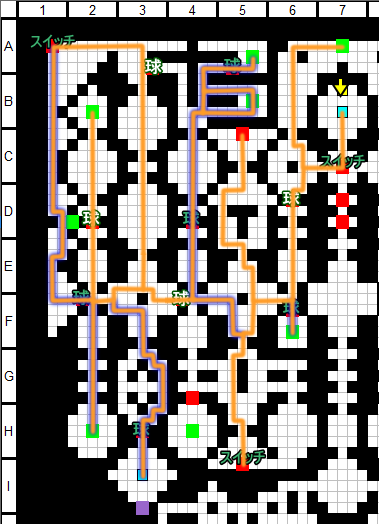
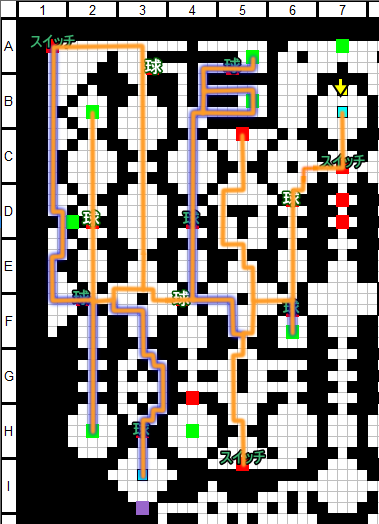
Updated 12F maps and removed another chest

Changed region(s): [[0.7546, 0.0611, 0.8997, 0.3664]]

diff --git a/item/chests.md b/item/chests.md
@@ -314,7 +314,7 @@ Any treasure located in floor A that can only be obtained after reaching floor B
 | Contents | AnM | AnM+ |
 | :---: | :---: | :---: |
 | Tome of Insight - EVA x2<br>Tome of Insight - ACC x2<br>Tome of Insight - AFF x2<br>Olzhas Shamshir x2 | O |
-| 1500 Money | O |
+| 1500 Money | X |
 | Blade Cuisinart | X |
 | Damascus Shield | X |
 | Energy Pack | O |
@@ -332,8 +332,8 @@ Any treasure located in floor A that can only be obtained after reaching floor B
 | Training Manual | O |
 | Treasure Chest Key | O |
 | Wallbreaker Armband | O |
-| Floor Total | 10 |
-| Combined Total | 131 |
+| Floor Total | 9 |
+| Combined Total | 117 |
 
 #### <a id="floor-13"></a>Floor 13
 
